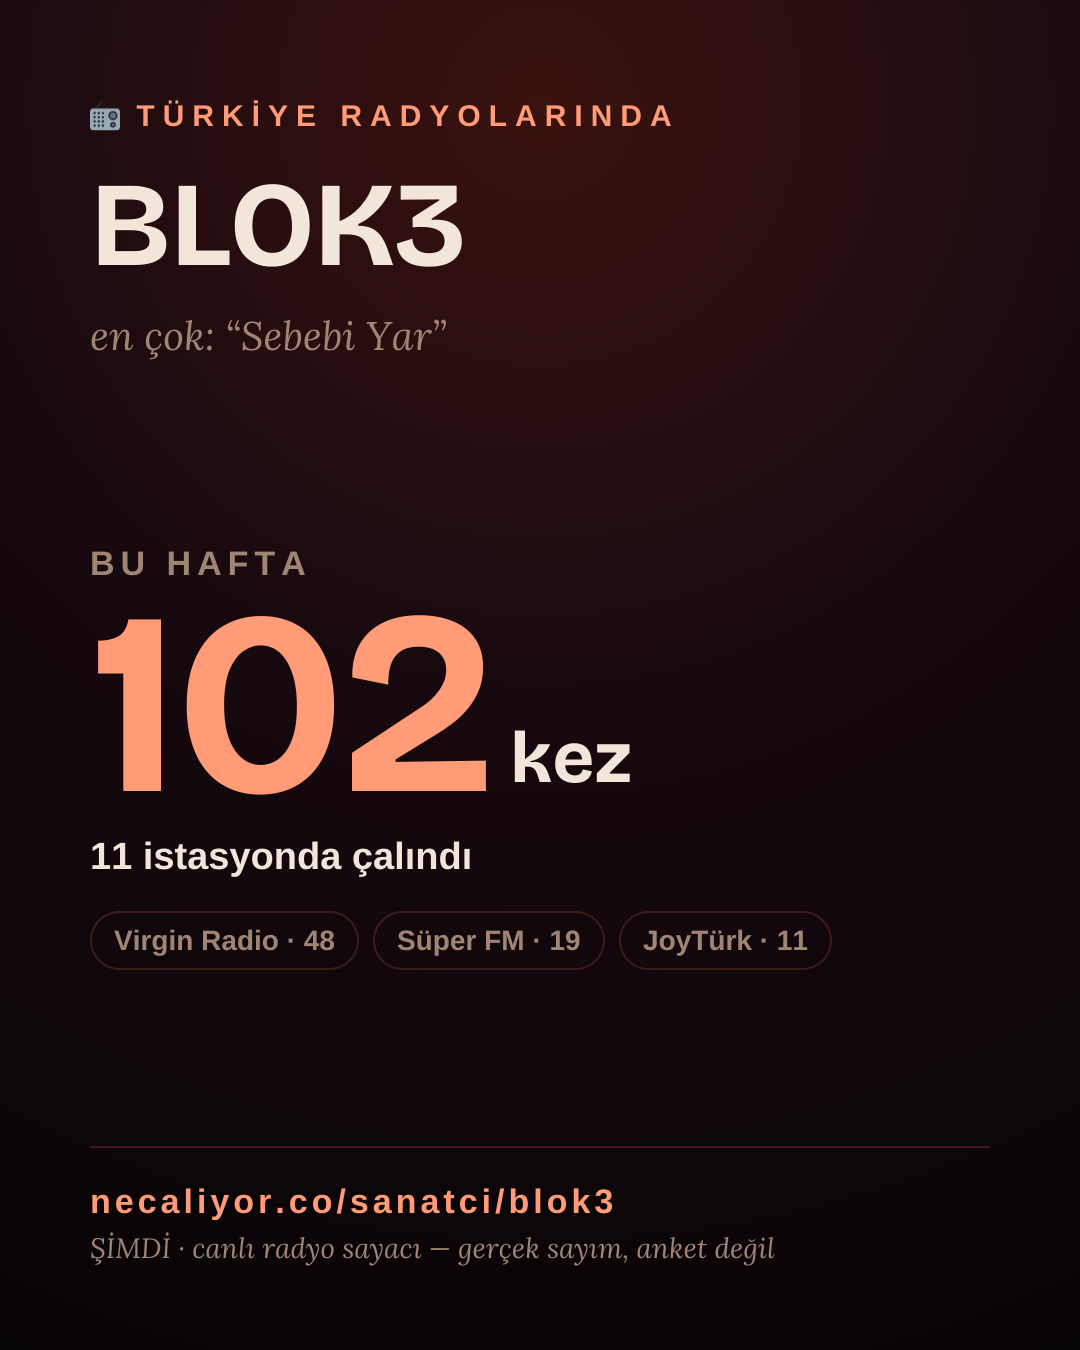
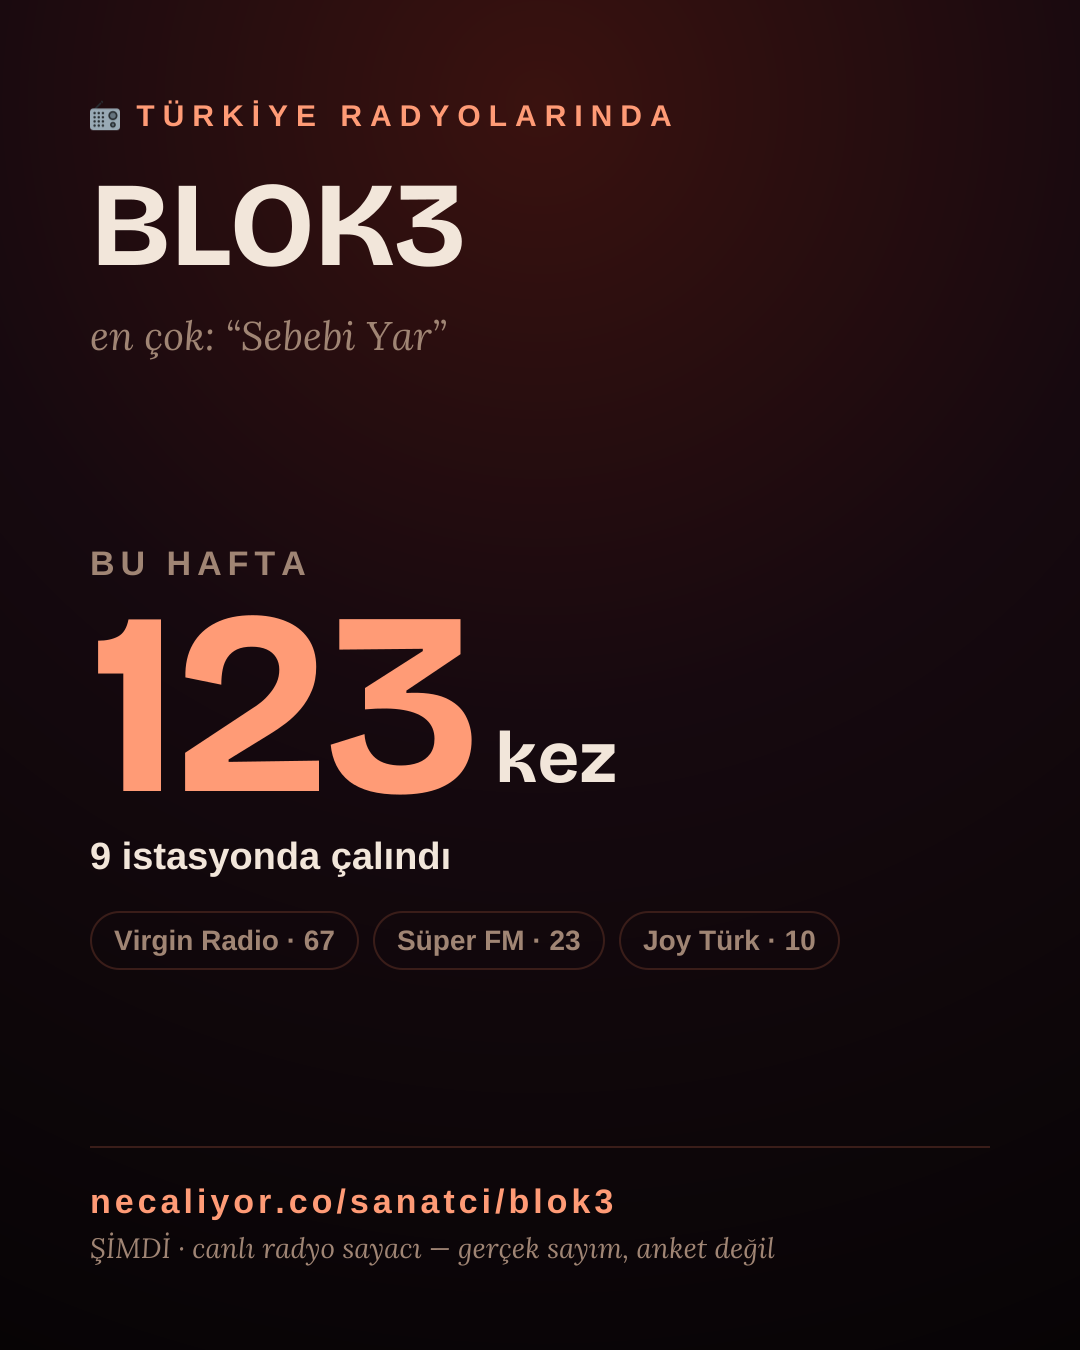
Kampanya: ikiz düzeltmesi sonrası sayılar — etiket metinleri + rozetler yenilendi, flood T9 düzeltilmiş Eylül (50.767 · Manifest · Imael Angel), eski yanlış endeks kartı kaldırıldı

diff --git a/kampanya/etiket-cuma.md b/kampanya/etiket-cuma.md
@@ -1,6 +1,6 @@
 # ŞİMDİ — Sanatçı Etiket Seferi (Cuma 2 Ekim, rapor kartından sonra)
 
-**Sayılar:** 1 Ekim gecesi alınan SON 7 GÜN sayımı — kez, istasyon, şarkı ve
+**Sayılar:** 1 Ekim öğlen, İKİZ YAYINLAR AYIKLANDIKTAN SONRA alınan SON 7 GÜN sayımı — kez, istasyon, şarkı ve
 istasyon dağılımı HEPSİ aynı 7 günden. Cuma 11:00'de son kez tazelenecek
 (rozetler zaten canlıdan üretilir, metinleri ona eşitleyeceğim).
 
@@ -16,74 +16,75 @@ ile tek dokunuşta kendi story'sine alabilir.
 ---
 
 ## 1) Hadise — 12:15
-IG **@hadise** · X **@Hadise** · 7 gün: **62 kez · 14 istasyon** · "Ara Beni" 34 kez
-Kanca: Türkiye Radyo Endeksi'nin İLK 1 numarası.
+IG **@hadise** · X **@Hadise** · 7 gün: **79 kez · 15 istasyon** · "Ara Beni" 37 kez
+Kanca: "Ara Beni" Eylül Endeksi'nde 2. sırada; son 7 günde 15 farklı radyoda.
 
 **X:**
-@Hadise "Ara Beni" Eylül'de Türkiye radyolarında en çok çalan şarkı oldu — Türkiye Radyo Endeksi'nin ilk 1 numarası 🏆📻
-Ekim'e de hızlı girdi: son 7 günde 14 istasyonda 62 kez.
+@Hadise "Ara Beni" Eylül'de Türk radyolarında en çok çalan 2. şarkı oldu 📻
+Ekim'e de hızlı girdi: son 7 günde 15 farklı radyoda 79 kez.
 necaliyor.co/sanatci/hadise
 
 **IG story** (hadise-story.png + mention):
-@hadise Eylül'ün radyo 1 numarası "Ara Beni" 🏆 Son 7 günde 14 radyoda 62 kez 📻 👉 necaliyor.co/endeks
+@hadise son 7 günde 15 radyoda 79 kez 📻 "Ara Beni" Eylül Endeksi'nde 2. sırada 👉 necaliyor.co/sanatci/hadise
 
 ---
 
 ## 2) BLOK3 — 12:30
-IG **@blok3.real** · X doğrulanamadı → X'te adıyla, etiketsiz · 7 gün: **102 kez · 11 istasyon** · "Sebebi Yar" 31 kez
+IG **@blok3.real** · X doğrulanamadı → X'te adıyla, etiketsiz · 7 gün: **123 kez · 9 istasyon** · "Sebebi Yar" 32 kez
 
 **X:**
-Son 7 günde Türkiye radyolarında en çok çalan sanatçı: BLOK3 📻
-11 istasyonda 102 kez — Virgin Radio tek başına 48 kez çaldı.
+Son 7 günde Türk radyolarında BLOK3 tam 123 kez çaldı 📻
+Virgin Radio tek başına 67 kez; "Sebebi Yar" ve "Kayıp Kalp" dönüyor.
 Gerçek sayım, anket değil: necaliyor.co/sanatci/blok3
 
 **IG story:**
-@blok3.real son 7 günde radyolarda 102 kez çaldın 📻 En çok "Sebebi Yar". Rozetin hazır 👉 necaliyor.co/sanatci/blok3
+@blok3.real son 7 günde radyolarda 123 kez çaldın 📻 En çok "Sebebi Yar". Rozetin hazır 👉 necaliyor.co/sanatci/blok3
 
 ---
 
 ## 3) Manifest — 12:45
-IG **@m6nifestgirls** · X **@m6nifestgirls** · 7 gün: **84 kez · 11 istasyon** · "Toz Pembe" 24 · "Hileli" 24
+IG **@m6nifestgirls** · X **@m6nifestgirls** · 7 gün: **104 kez · 10 istasyon** · "Toz Pembe" 32 · "Hileli" 24
+Kanca: Eylül Endeksi'nin AYIN SANATÇISI.
 
 **X:**
-@m6nifestgirls son 7 günde Türkiye radyolarında 84 kez çaldınız 📻
-"Toz Pembe" ve "Hileli" başa baş: ikisi de 24'er kez, 11 istasyonda.
+@m6nifestgirls Eylül'de Türk radyolarının ayın sanatçısı sizdiniz 🏆📻
+Ekim'de de durmuyorsunuz: son 7 günde 10 radyoda 104 kez, en çok "Toz Pembe".
 Rozetiniz hazır: necaliyor.co/sanatci/manifest
 
 **IG story:**
-@m6nifestgirls "Toz Pembe" 24, "Hileli" 24 — radyolar ikisini de bırakmıyor 📻 Son 7 günde 84 kez 👉 necaliyor.co/sanatci/manifest
+@m6nifestgirls Eylül'ün radyo sanatçısı 🏆 Son 7 günde 104 kez, "Toz Pembe" önde 📻 👉 necaliyor.co/endeks
 
 ---
 
 ## 4) Elif Buse Doğan — 13:00
-IG **@elifbusedogan** · X **@elifbusedgn** · 7 gün: **57 kez · 16 istasyon** · "Yangın Yeri" 23 kez
+IG **@elifbusedogan** · X **@elifbusedgn** · 7 gün: **67 kez · 15 istasyon** · "Yangın Yeri" 31 kez
 
 **X:**
-@elifbusedgn "Yangın Yeri" son 7 günde 16 farklı radyoda çaldı 📻
-Pop kanalından türkü radyosuna — en çok Türkülerle Türkiye'de. Toplam 57 kez.
+@elifbusedgn "Yangın Yeri" son 7 günde Türk radyolarında 31 kez çaldı 📻
+Sanatçı toplamda 15 farklı radyoda, 67 kez — pop kanalından türkü radyosuna.
 necaliyor.co/sanatci/elif-buse-dogan
 
 **IG story:**
-@elifbusedogan son 7 günde 16 radyoda çaldın 📻 Pop'tan türküye, her kanalda "Yangın Yeri" 👉 necaliyor.co/sanatci/elif-buse-dogan
+@elifbusedogan son 7 günde 15 radyoda çaldın 📻 Pop'tan türküye, her kanalda "Yangın Yeri" 👉 necaliyor.co/sanatci/elif-buse-dogan
 
 ---
 
 ## 5) Eypio — 13:15
-IG **@eypio** · X doğrulanamadı → X'te etiketsiz · 7 gün: **51 kez · 9 istasyon** · "Ömrüm" 27 kez
+IG **@eypio** · X doğrulanamadı → X'te etiketsiz · 7 gün: **62 kez · 8 istasyon** · "Ömrüm" 30 kez
 
 **X:**
-Eypio'nun "Ömrüm"ü son 7 günde Türkiye radyolarında 27 kez çaldı; sanatçı toplamda 51 kez, 9 istasyonda 📻
-En çok Virgin Radio (21).
+Eypio'nun "Ömrüm"ü son 7 günde Türk radyolarında 30 kez çaldı; sanatçı toplamda 62 kez, 8 istasyonda 📻
+En çok Virgin Radio (28).
 Gerçek sayım: necaliyor.co/sanatci/eypio
 
 **IG story:**
-@eypio "Ömrüm" son 7 günde radyolarda 27 kez 📻 Rozetin 👉 necaliyor.co/sanatci/eypio
+@eypio "Ömrüm" son 7 günde radyolarda 30 kez 📻 Rozetin 👉 necaliyor.co/sanatci/eypio
 
 ---
 
 ## Yedek kulübe (ilk dalgadan yanıt gelirse)
-- Bora Duran — 11 istasyon, 37 kez ("Döndüm" 19)
-- Poizi — 6 istasyon, 41 kez ("Başımda Belalar" 26)
+- Bora Duran — 13 istasyon, 44 kez ("Döndüm" 25)
+- Poizi — 6 istasyon, 52 kez ("Başımda Belalar" 32)
 
 ## Biri paylaşırsa
 Hemen alıntıla, teşekkür et ("rozetin her saat tazeleniyor, radyo seni saymaya devam ediyor 📻"),

diff --git a/kampanya/flood-1-ekim.md b/kampanya/flood-1-ekim.md
@@ -1,5 +1,6 @@
 # ŞİMDİ — Açılış Flood'u (1 Ekim, öğlen ~12:30)
-Görseller: T1 = endeks kartı (sabah 10:00'da sunucudan gelir) · T3 = telefondan
+⚠ 1 Eki 12:30: ikiz yayın düzeltmesi sonrası Eylül sayıları DEĞİŞTİ — aşağıdaki T9 güncel.
+Görseller: T1 = endeks kartı (DÜZELTİLMİŞ kart: kampanya/endeks-eylul-2026.png) · T3 = telefondan
 15 sn harita ekran kaydı (tam ekranda 2-3 ışığa dokun, biri çalsın) · T9 = endeks kartı tekrar.
 Sıra: T1'i at → altına zincir olarak devamını. T1'i profiline SABİTLE.
 
@@ -8,7 +9,7 @@ Sıra: T1'i at → altına zincir olarak devamını. T1'i profiline SABİTLE.
 **1/**
 Türkiye'nin ve dünyanın radyolarını tek ekranda dinleyeceğin, şu an hangi şarkının çaldığını SANİYESİNDE gösteren bir site yaptım: necaliyor.co
 
-352 radyo · 51 ülke · üyeliksiz · ücretsiz · reklamsız.
+350 radyo · 50+ ülke · üyeliksiz · ücretsiz · reklamsız.
 
 Bir yazarın radyo takıntısından doğdu. Neler var, tek tek: 🧵
 
@@ -46,11 +47,12 @@ Radyo artık "bu kimdi?" diye bitmiyor.
 **9/**
 Ve hepsinin özeti: TÜRKİYE RADYO ENDEKSİ 📰
 
-Her ayın 1'inde, radyolarda GERÇEKTE en çok çalanların resmi raporu. İlki bugün yayında:
+Her ayın 1'inde, Türk radyolarında GERÇEKTE en çok çalanların raporu. İlki yayında:
 
-Eylül 2026 → 190.662 kayıtlı çalma
-Ayın sanatçısı: BLOK3
-Ayın şarkısı: Hadise — Ara Beni (7 istasyonda 59 kez)
+Eylül 2026 → 50.767 kayıtlı çalma
+Ayın sanatçısı: Manifest
+Ayın şarkısı: Imael Angel — Bad Times
+2. sırada: Hadise — Ara Beni
 
 Ham veri herkese açık: necaliyor.co/endeks
 
